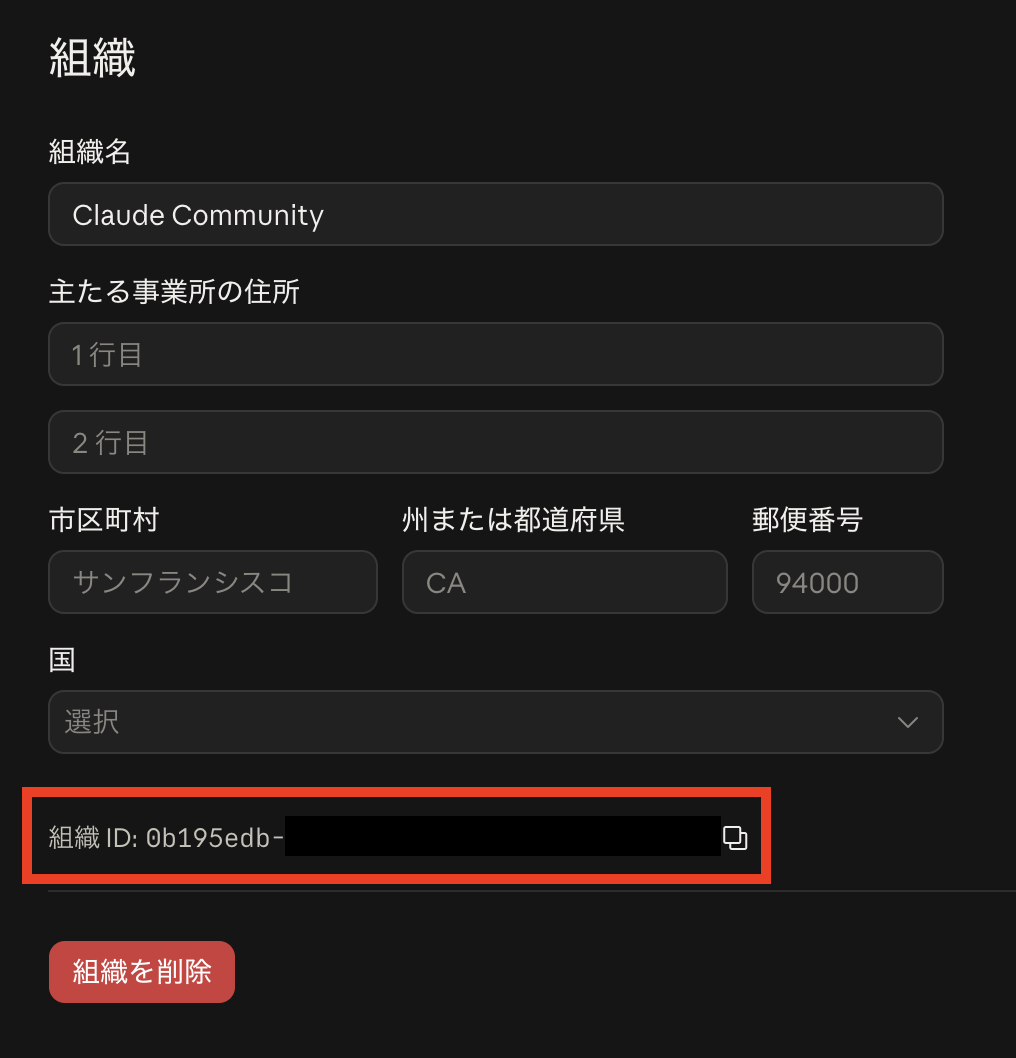
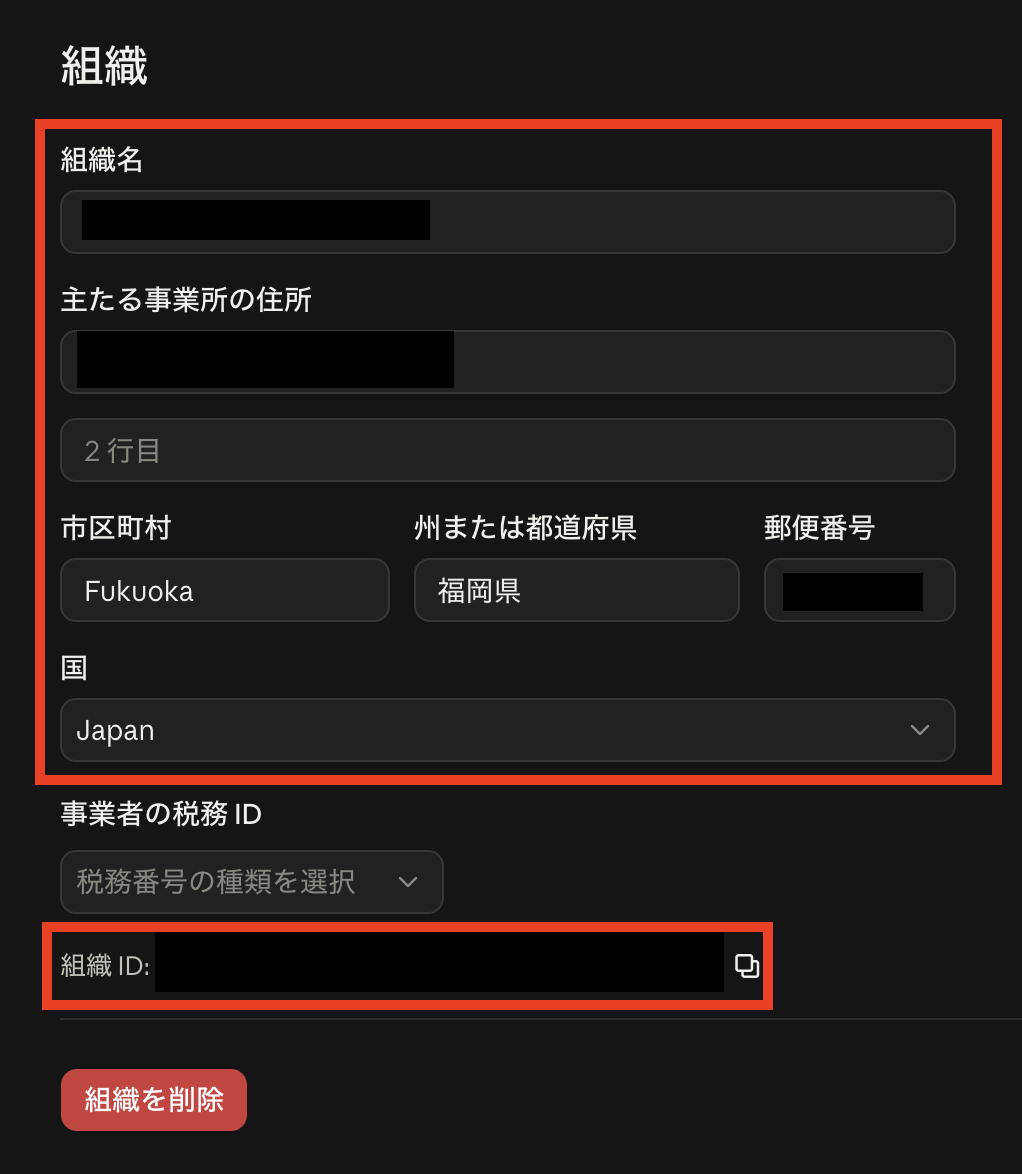
docs: update the organization setup slide for the new UI

diff --git a/slide/slide.en.md b/slide/slide.en.md
@@ -141,9 +141,9 @@ section > p:has(> img) {
 section > p:has(> img) img { height: 400px; border-radius: 12px; }
 </style>
 
-# 2. Check your organization ID (old UI only)
+# 2. Create or check your organization (old UI also needs the organization ID)
 
-- Open **Settings → Organization** and copy the **Organization ID**
+- In **Settings → Organization**, enter your organization name and address (in the old UI, also copy the **Organization ID**)
 
 ![](image/setup/menu-settings.png) → ![](image/setup/settings-organization.png) → ![](image/setup/organization-id.png)
 

diff --git a/slide/slide.md b/slide/slide.md
@@ -140,9 +140,9 @@ section > p:has(> img) {
 section > p:has(> img) img { height: 400px; border-radius: 12px; }
 </style>
 
-# 2. 組織 ID を確認（新UIでは不要）
+# 2. 組織を作成・確認（旧UIでは、組織IDも必要）
 
-- **設定 → 組織** を開き、**組織 ID** をコピーする
+- **設定 → 組織** で組織名・住所を入力する（旧UIでは**組織 ID** もコピー）
 
 ![](image/setup/menu-settings.png) → ![](image/setup/settings-organization.png) → ![](image/setup/organization-id.png)
 
